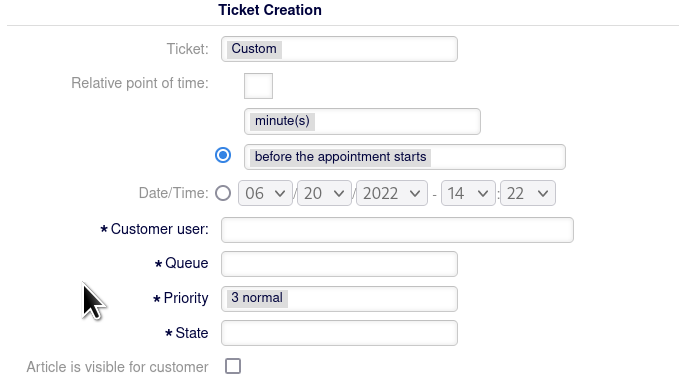
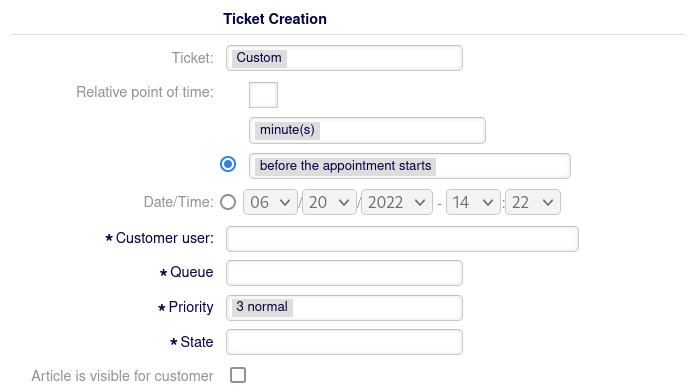
Screenshot replaced

diff --git a/doc/content/index.rst b/doc/content/index.rst
@@ -14,7 +14,7 @@ Ticket Creation is initiated in the AppointmentEdit mask under the section 'Tick
 The feature as of now does not support the form update functionality to dynamically adjust possible content, database fields are also not supported.
 
 .. figure:: screenshot_en.png
-   :scale: 75%
+   :scale: 50%
    :alt: The sreenshot shows the newly available fields. 
 
    The screenshot shows the newly available fields for ticket creation.
